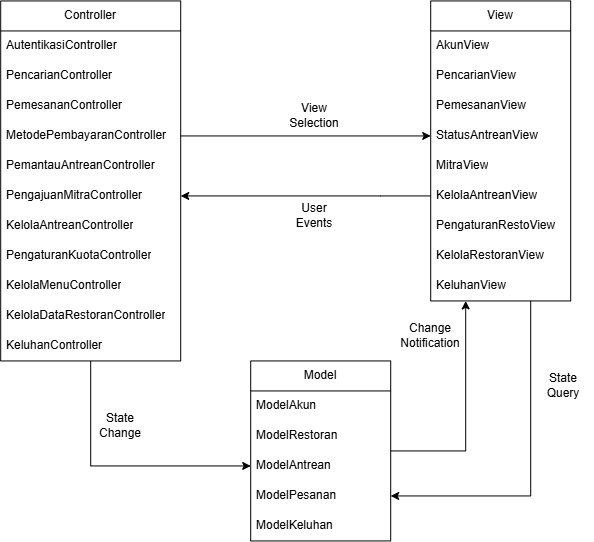
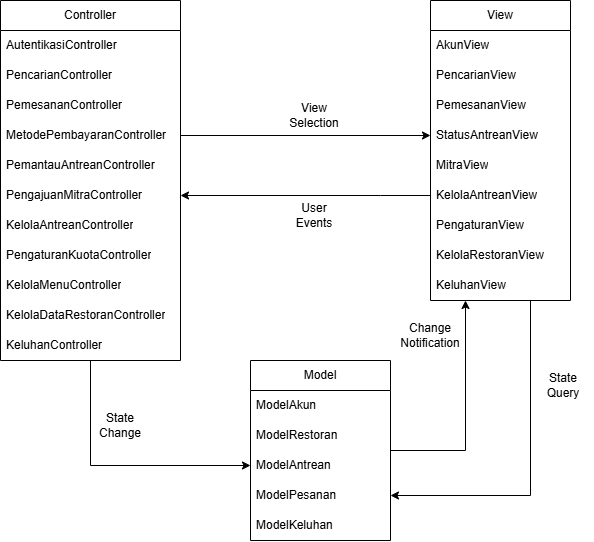
feat: Hubungan Teknologi dengan MVC + Perbaikan Diagram

Changed region(s): [[0.0, 0.0, 0.9697, 1.0]]

diff --git a/docs/M6/K01_G10_APL.md b/docs/M6/K01_G10_APL.md
@@ -47,8 +47,10 @@ Isi bab ini dengan hal-hal berikut:
 1. **Style/pattern yang dipilih** beserta penjelasan singkat peran setiap bagiannya. Untuk MVC, jelaskan peran *Model*, *View*, dan *Controller*.
 2. **Alasan pemilihan** berdasarkan karakteristik P/L Anda, misalnya jenis pengguna, alur proses bisnis, serta KF dan KNF pada dokumen SKPL.
 3. **Gambar style/pattern yang diterapkan pada P/L Anda.** Jangan hanya menyalin Gambar 1. Isi setiap bagian pattern dengan komponen milik P/L Anda. Misalnya, kotak *Controller* berisi daftar *controller* yang ada di aplikasi dan kotak *Model* berisi daftar *model* yang ada di aplikasi.
+
+<br>
   
-Style yang dipilih adalah Architectural Style MVC. Model berperan sebagai representasi data dan aturan bisnis, View sebagai pengatur tampilan, dan Controller berperan sebagai penghubung Model dan View
+Style yang dipilih adalah Architectural Style MVC. Pola arsitektur ini memisahkan aplikasi menjadi 3 komponen utama, yaitu Model, View, dan Controller. Model berperan sebagai representasi data dan logika bisnis, View sebagai pengatur tampilan informasi kepada pengguna, dan Controller berperan sebagai penghubung Model dan View.
 
 Alasan Pemilihan:
 1. Berdasarkan jenis pengguna:
@@ -56,7 +58,10 @@ Alasan Pemilihan:
 - Restoran: Karena Model menjadi sumber data tunggal, perubahan dari sisi restoran secara otomatis tersedia untuk View pelanggan tanpa menduplikasi data.
 - Admin: View admin berupa panel kerja yang berbeda dari antarmuka pelanggan, sehingga bisa dikembangkan sendiri.
   
-2. Berdasarkan alur proses bisnis: Data antrean yang sama muncul di HalamanStatusAntrean (pelanggan) dan DashboardAntreanPage (restoran). Dengan MVC, perubahan di Model (misalnya setelah dequeue) dapat memperbarui kedua View sekaligus.
+2. Berdasarkan alur proses bisnis: 
+- Data antrean yang sama muncul di HalamanStatusAntrean (pelanggan) dan DashboardAntreanPage (restoran). Dengan MVC, perubahan di Model (misalnya setelah dequeue) dapat memperbarui kedua View sekaligus.
+- Aplikasi membutuhkan proses validasi yang cukup kompleks. Dengan MVC, proses bisnis yang kompleks bisa dipisahkan dengan antarmuka supaya tidak terlalu menganggu tampilan.
+- MVC memudahkan pengembangan fitur yang berbeda seperti registrasi restoran, pencarian restoran, booking, pre-order, pembayaran, dan pengelolaan antrean.
 
 3. Berdasarkan KF dan KNF:
 - Pemisahan peran pengguna (KF21, KF15, KF19, KF20)
@@ -85,7 +90,7 @@ Fitur yang harus tersedia setiap saat seperti daftar restoran, nomor antrean, da
 
 - Ergonomy (KNF04, KNF13)
 Antarmuka yang minimalis dan mudah digunakan membutuhkan iterasi desain tampilan yang sering. Karena View terpisah dari logika, desain UI dapat diubah tanpa menyentuh logika bisnis.
-
+<br>
 <p align="center">
 <img alt="Contoh Arsitektur MVC" src="./assets/diagram/MVC.png" width="70%">
 </p>
@@ -106,6 +111,20 @@ Tabel 1.1. Lingkungan Operasi Perangkat Lunak
 | *Bahasa Pemrograman* | *Typescript* |
 | *API* | *REST API* |
 | *...* | *...* |
+
+<br>
+
+Tabel 1.2. Hubungan Teknologi dengan Style MVC
+| Komponen | Hubungan |
+| :--- | :--- |
+| *Server* | *Localhost menjalankan aplikasi MVC yang terdiri dari Model, View, dan Controller serta memproses request dari client.* |
+| *Client* | *Google Chrome digunakan untuk mengakses dan menampilkan View, serta mengirimkan request ke Controller melalui REST API.* |
+| *DBMS* | *PostgreSQL 15+ digunakan oleh Model untuk menyimpan dan mengelola data aplikasi, seperti data restoran, customer, pesanan, dan antrean.* |
+| *OS* | *Windows 11 menjadi lingkungan untuk menjalankan server lokal, aplikasi MVC, dan PostgreSQL.* |
+| *Bahasa Pemrograman* | *TypeScript digunakan untuk mengimplementasikan logika Model, Controller, dan bagian View pada aplikasi.* |
+| *API* | *REST API menjadi penghubung antara Client/View dengan Controller untuk mengirim request dan menerima response dari server.* |
+| *...* | *...* |
+
 
 <sub><b><i>Catatan</i></b>: <i>Style/pattern yang dipilih di bab ini menjadi acuan untuk BAB 2 (pengelompokan komponen) dan BAB 3 (model arsitektur). Contoh pada dokumen ini memakai MVC secara konsisten dari BAB 1 sampai BAB 3. Kelompok boleh memakai pattern lain selama alasannya dijelaskan dan BAB 2 serta BAB 3 disesuaikan. Tabel 1.1 harus sama persis dengan subbab 2.5 dokumen SKPL; jangan menambah atau mengubah isinya karena SKPL sudah final.</i></sub>
 
